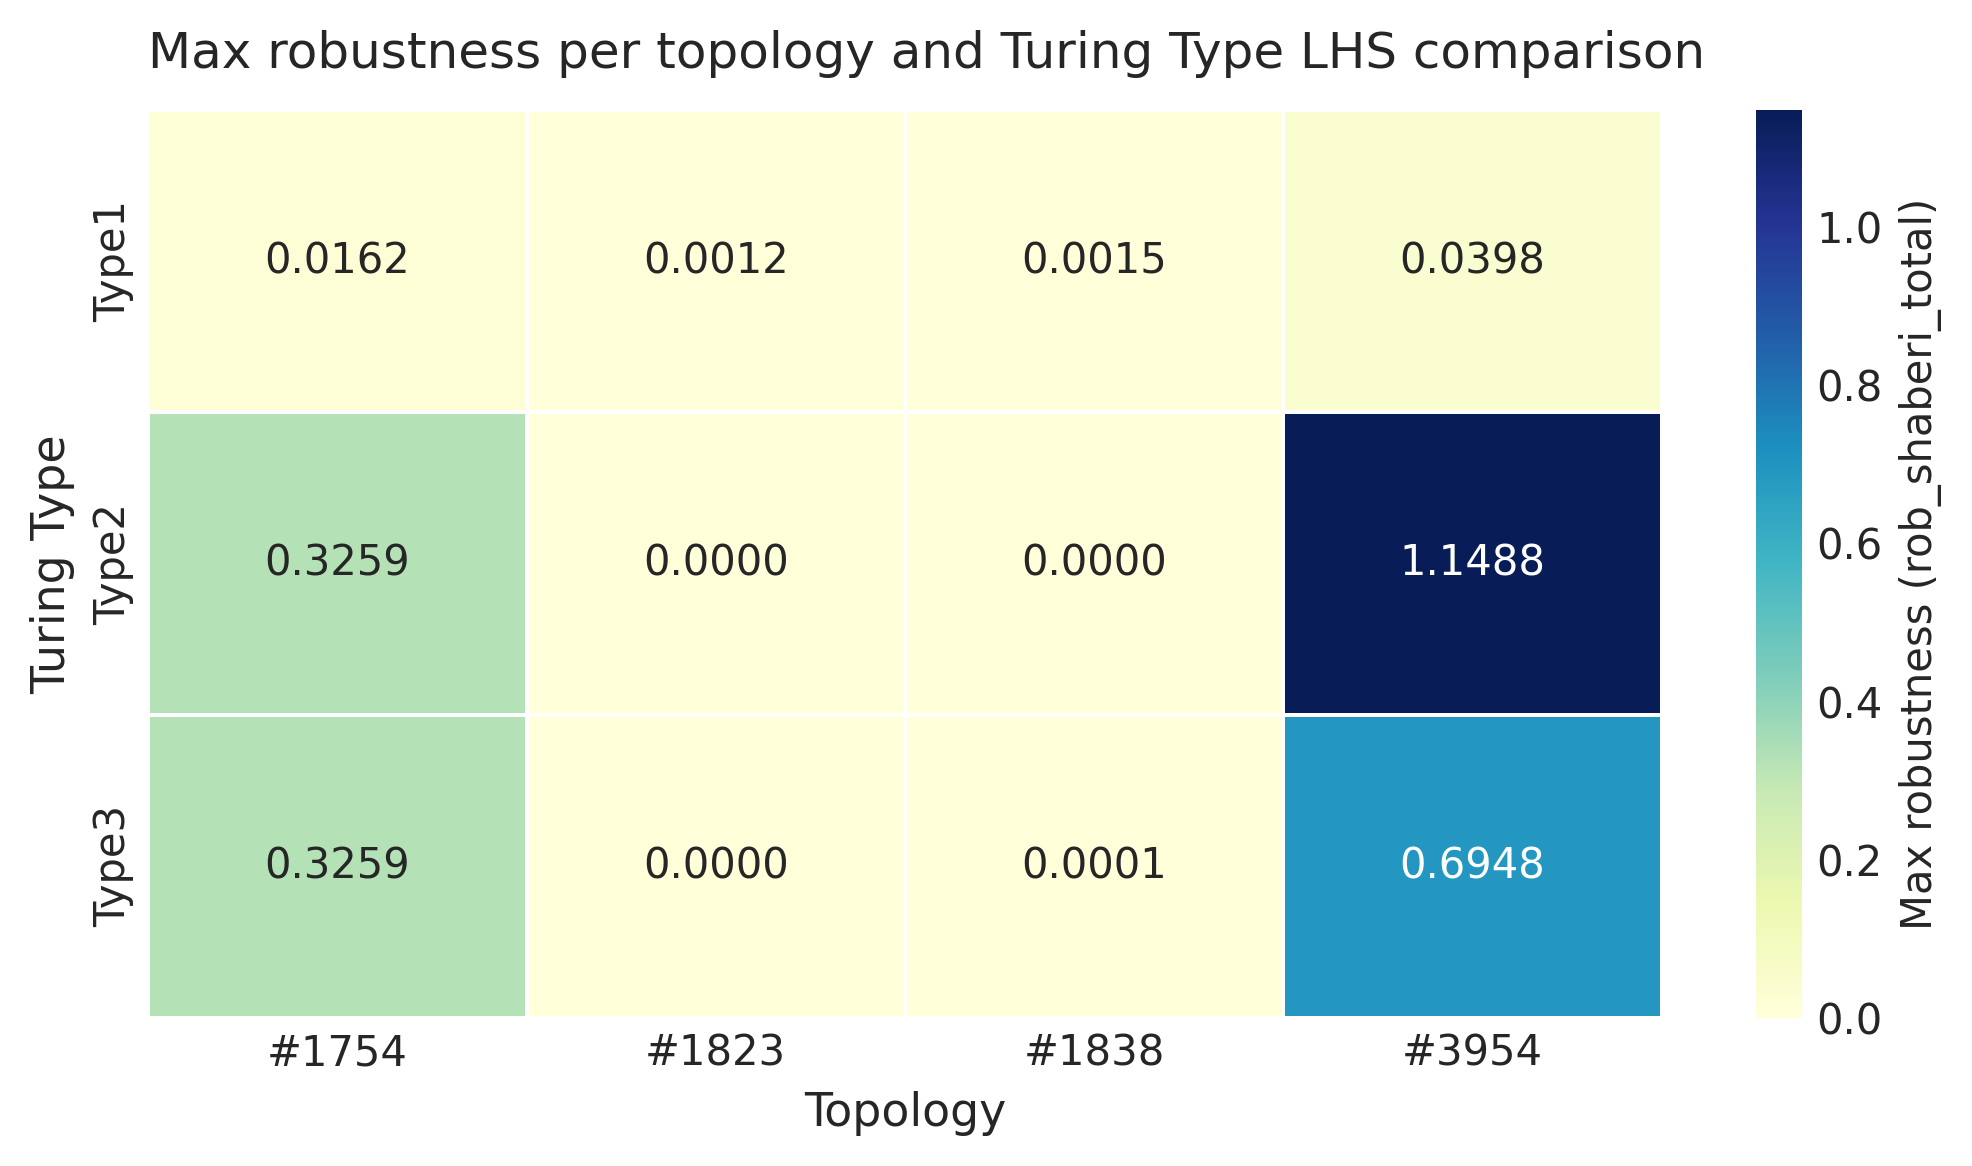
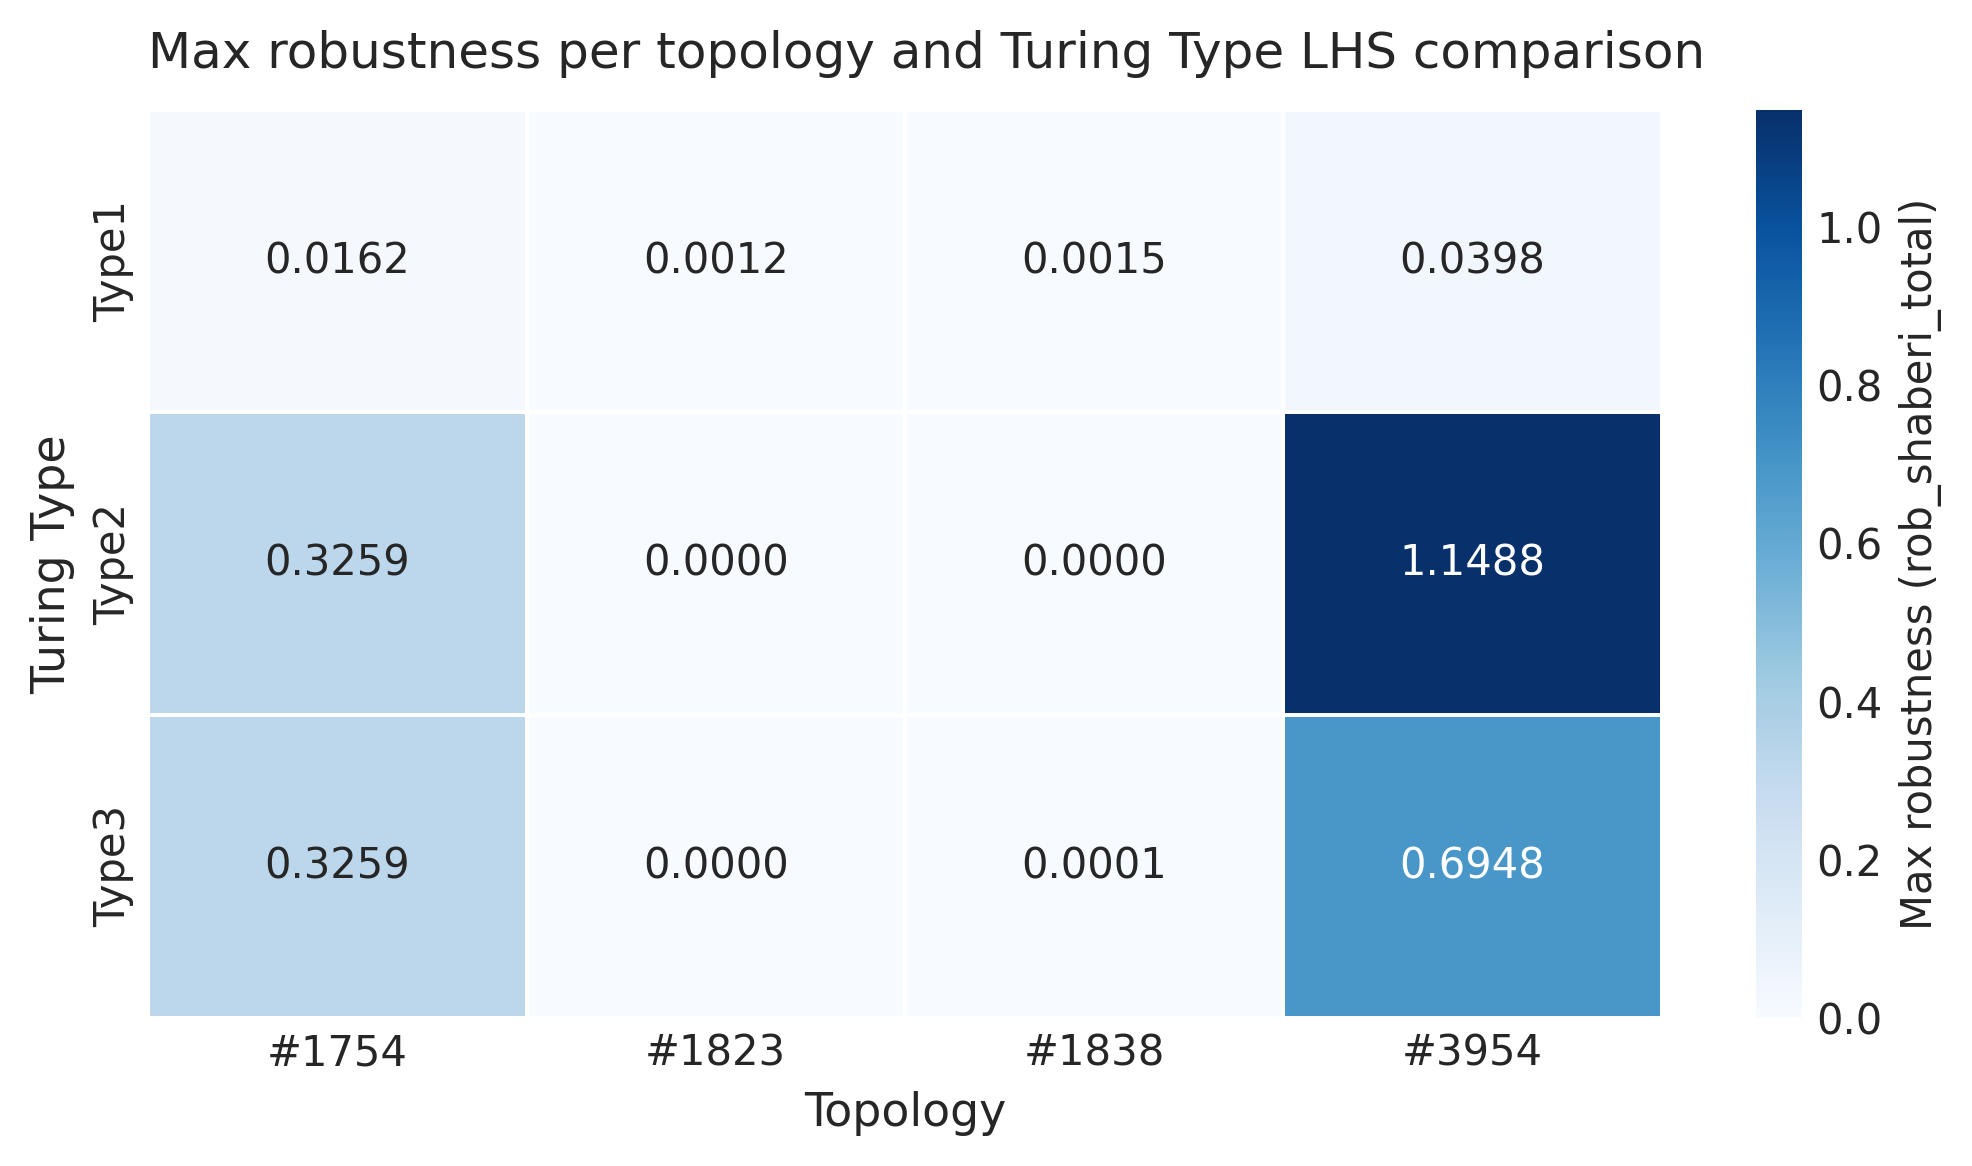
i am sad

diff --git a/TopologyRanking/results-compare-lhs.py b/TopologyRanking/results-compare-lhs.py
@@ -11,6 +11,13 @@ CSVS = {
     "#3954": "Topology3954/3954_lhs_results_corrected_1mio.csv",
 }
 
+# CSVS = {
+#     "#1754": "Topology1754/1754_lhs_results_corrected_1mio.csv",
+#     "#1823": "Topology1823/1823_results_summary_corrected.csv",
+#     "#1838": "Topology1838/1838_results_summary.csv",
+#     "#3954": "Topology3954/3954_lhs_results_newshaberi_1mio.csv",
+# }
+
 OUT_DIR = Path("ResultPlots")
 OUT_DIR.mkdir(parents=True, exist_ok=True)
 
@@ -31,10 +38,10 @@ plt.rcParams.update({
 })
 
 TYPE_COLORS = {
-    "Type1": "#4C72B0",
-    "Type2": "#DD8452",
-    "Type3": "#55A868",
-}
+    "Type1": "#444EA6",
+    "Type2": "#AE2BA1",
+    "Type3": "#3FA051",
+} 
 
 def save(fig, name):
     for ext in ("png",):
@@ -68,7 +75,7 @@ def fig1_heatmap(df):
         pivot,
         annot=True,
         fmt=".4f",
-        cmap="YlGnBu",
+        cmap="Blues",
         linewidths=0.5,
         linecolor="white",
         ax=ax,
@@ -82,12 +89,98 @@ def fig1_heatmap(df):
     )
     fig.tight_layout()
     save(fig, "compare_fig1_heatmap")
-    
 
 
 
 
 
+
+########## FIGURE 2: Dumbbell plot Mean vs Max robustness per topology ##########
+ 
+def fig2_dumbbell(df):
+    topos   = ["#1754", "#1823", "#1838", "#3954"]
+    means   = [df[df["topology_id"] == t]["rob_shaberi_total"].mean() for t in topos]
+    maxes   = [df[df["topology_id"] == t]["rob_shaberi_total"].max()  for t in topos]
+ 
+    fig, ax = plt.subplots(figsize=(8, 5))
+ 
+    for i, (topo, mean, maxi) in enumerate(zip(topos, means, maxes)):
+        # connecting line
+        ax.plot([mean, maxi], [i, i], color="#aaaaaa", linewidth=2, zorder=1)
+        # mean dot
+        ax.scatter(mean, i, color="#194386", s=100, zorder=2, label="Mean" if i == 0 else "")
+        # max dot
+        ax.scatter(maxi, i, color="#229F2B", s=100, zorder=2, label="Max"  if i == 0 else "")
+ 
+    ax.set_yticks(range(len(topos)))
+    ax.set_yticklabels(topos, fontsize=11)
+    ax.set_xlabel("Robustness (rob_shaberi_total)", fontsize=11)
+    ax.set_title(
+        "Mean vs max robustness per topology, LHS comparison",
+        fontsize=12, loc="left", pad=10,
+    )
+    ax.yaxis.grid(False)
+    ax.legend(frameon=False, loc="upper center", bbox_to_anchor=(0.5, -0.12), ncol=2)
+ 
+    fig.tight_layout()
+    save(fig, "compare_fig2_dumbbell")
+
+
+
+
+########## FIGURE 3: BASIC PLOT TO COMPARE ROBUSTNESS ##########
+
+# ITS SUPPOSED TO BE rob_shaberi_type_I but i let it at type total for now bc i am confuseddddd :////
+ 
+def fig3_best_config_bar(df):
+    topos = ["#1754", "#1823", "#1838", "#3954"]
+ 
+    best_configs = []
+    for t in topos:
+        subset  = df[df["topology_id"] == t]
+        idx     = subset["rob_shaberi_total"].idxmax()
+        best_configs.append({
+            "topology_id" : t,
+            "rob"         : subset.loc[idx, "rob_shaberi_total"],
+            "config_name" : subset.loc[idx, "config_name"],
+        })
+ 
+    labels   = [d["topology_id"]  for d in best_configs]
+    values   = [d["rob"]          for d in best_configs]
+    configs  = [d["config_name"]  for d in best_configs]
+ 
+    fig, ax = plt.subplots(figsize=(9, 5))
+ 
+    bars = ax.bar(
+        labels,
+        values,
+        color="#1F4E99",
+        edgecolor="white",
+        linewidth=0.5,
+        width=0.5,
+    )
+ 
+    # Annotate each bar with the config name
+    for bar, cfg in zip(bars, configs):
+        # strip the topology prefix to keep it short
+        short = cfg.split("_", 2)[-1]   # e.g. "DCC_Type2_Unequal1"
+        ax.text(
+            bar.get_x() + bar.get_width() / 2,
+            bar.get_height() + 0.002,
+            short,
+            ha="center", va="bottom",
+            fontsize=8, color="#444444",
+        )
+ 
+    ax.set_ylabel("Max robustness (rob_shaberi_total)", fontsize=11)
+    ax.set_title(
+        "Highest robustness score per topology – LHS comparison",
+        fontsize=12, loc="left", pad=10,
+    )
+    ax.xaxis.grid(False)
+ 
+    fig.tight_layout()
+    save(fig, "compare_fig3_best_config_bar")
 
 
 
@@ -97,3 +190,5 @@ def fig1_heatmap(df):
 
 df = load_all()
 fig1_heatmap(df)
+fig2_dumbbell(df)
+fig3_best_config_bar(df)
